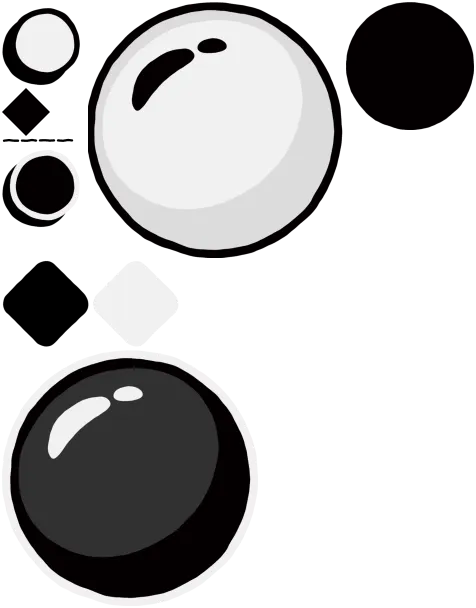
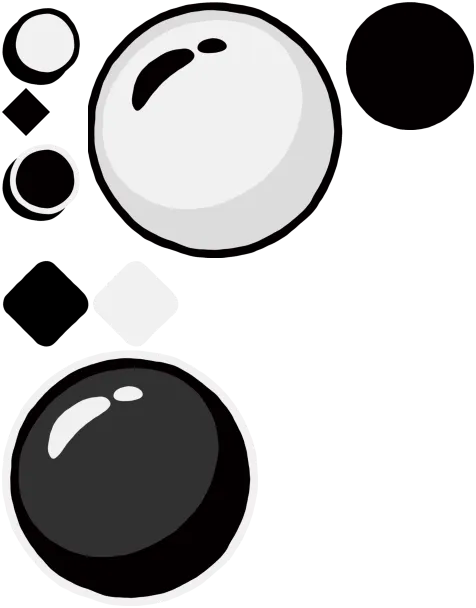
refactor(assets): move the hand-drawn board line to the shared board family
go:grid-line -> board:squiggle-dash. Board furniture is not any one game's art,
and filing it in go's game-scoped family is exactly what stopped chess -- which
already loads the `board` family -- from reaching the line go draws.

The board family loses its declared 128x128 sourceSize and gains a $note: it is
now deliberately mixed-resolution, a 128 tile alongside a 74x4 strip. That is
how `go` already declares the same situation, and the build hard-fails on a
family whose art does not match a declared size.

The -dash suffix is deliberate. The same hand-drawn set has a solid variant
(squiggle-solid.png, 165x4, already in design-system-tokens for the DOM), so a
bare `squiggle` would need renaming across every board the moment it lands.

The Pixi path rotates one strip per run and so needs no vertical variant; the
DOM .squiggle-border carries squiggle-v.png only because CSS cannot rotate a
background image. That tokens copy of the artwork stays -- tokens is
self-contained by design.

go moves with the asset, in the smallest change that keeps it working: it loads
the board family and points at the new id, keeping its own drawing code. Moving
the asset without this hard-breaks the visualizer -- a TilingSprite built on an
undefined texture throws inside drawBoard and kills init before anything
renders, leaving the whole board blank rather than merely unlined.

Note that repacking is not pixel-neutral: sampling the strip out of a 132x138
[…]

Changed region(s): [[0.0, 0.2188, 0.1765, 0.375]]

diff --git a/kaggle_environments/envs/open_spiel_env/games/go/visualizer/default/src/graphics/constants.ts b/kaggle_environments/envs/open_spiel_env/games/go/visualizer/default/src/graphics/constants.ts
@@ -1,5 +1,6 @@
 import type { FamilyInfo } from '@kaggle-environments/design-system-assets';
 import goFamily from '@kaggle-environments/design-system-assets/go';
+import boardFamily from '@kaggle-environments/design-system-assets/board';
 import fxFamily from '@kaggle-environments/design-system-assets/fx';
 import type { CellValue, GridPos } from '../types/game';
 
@@ -85,7 +86,10 @@ export function getNeighbors(row: number, col: number, boardSize: number): GridP
 /**
  * Asset families this visualizer loads at start-up.
  *
- * `go` is this game's own art — stones, board furniture and territory marks.
+ * `go` is this game's own art — stones, markers and territory marks. `board`
+ * carries the shared board furniture: the hand-drawn grid line moved there from
+ * the `go` family, because board lines are not any one game's art and filing
+ * them per-game is what kept other boards from reaching them.
  * `fx` is the shared particle family: the three capture puffs are byte-identical
  * to chess's, which is what earned them a place outside a game-scoped family.
  *
@@ -95,7 +99,7 @@ export function getNeighbors(row: number, col: number, boardSize: number): GridP
  * ever draws. Naming each family as an import keeps the bundle honest: what you
  * see here is what ships.
  */
-export const ASSET_FAMILIES: FamilyInfo[] = [goFamily, fxFamily];
+export const ASSET_FAMILIES: FamilyInfo[] = [goFamily, boardFamily, fxFamily];
 
 /** Board cell values -> the colour prefix used in the shared asset id vocabulary. */
 const COLOR_PREFIX: Record<Exclude<CellValue, '.'>, string> = { B: 'b', W: 'w' };
@@ -119,7 +123,7 @@ export function territoryId(value: Exclude<CellValue, '.'>): string {
 /** Single-variant ids, named here so no module has to spell them by hand. */
 export const SHADOW_ID = 'go:shadow';
 export const HOSHI_ID = 'go:hoshi';
-export const GRID_LINE_ID = 'go:grid-line';
+export const GRID_LINE_ID = 'board:squiggle-dash';
 
 /** The shared capture-puff particles, drawn from at random on capture. */
 export const PUFF_IDS = ['fx:puff1', 'fx:puff2', 'fx:puff3'] as const;

diff --git a/web/design-system/skills/assets.md b/web/design-system/skills/assets.md
@@ -67,10 +67,10 @@ const { atlasUrl, atlasData, pieces, missing } = goFamily;
 | Family | ids | Output | Notes |
 | --- | --- | --- | --- |
 | `chess` | `chess:{w,b}-{king,queen,rook,bishop,knight,pawn}` | atlas | 256×256, 12 pieces |
-| `board` | `board:dark-tile` | atlas | 128×128 |
+| `board` | `board:dark-tile`, `board:squiggle-dash` | atlas | shared board furniture; mixed sizes |
 | `fx` | `fx:puff1-3` | atlas | shared decorative particles |
 | `chess-fx` | `chess-fx:{squiggle-1-3,rook1-4,bishop1-2,pawn,knight-shadow}` | atlas | chess-only, game-scoped |
-| `go` | `go:{b,w}-{stone,marker,territory}`, `go:{shadow,hoshi,grid-line}` | atlas | go-only, game-scoped; mixed sizes |
+| `go` | `go:{b,w}-{stone,marker,territory}`, `go:{shadow,hoshi}` | atlas | go-only, game-scoped; mixed sizes |
 | `card` | `card:<rank>-<suit>`, `card:back`, `card:joker` | individual | 462×643, 54 pieces — **artwork not yet added** |
 
 Card ids: rank `a, 2…10, j, q, k` (`10`, not `t`); suit singular lowercase
